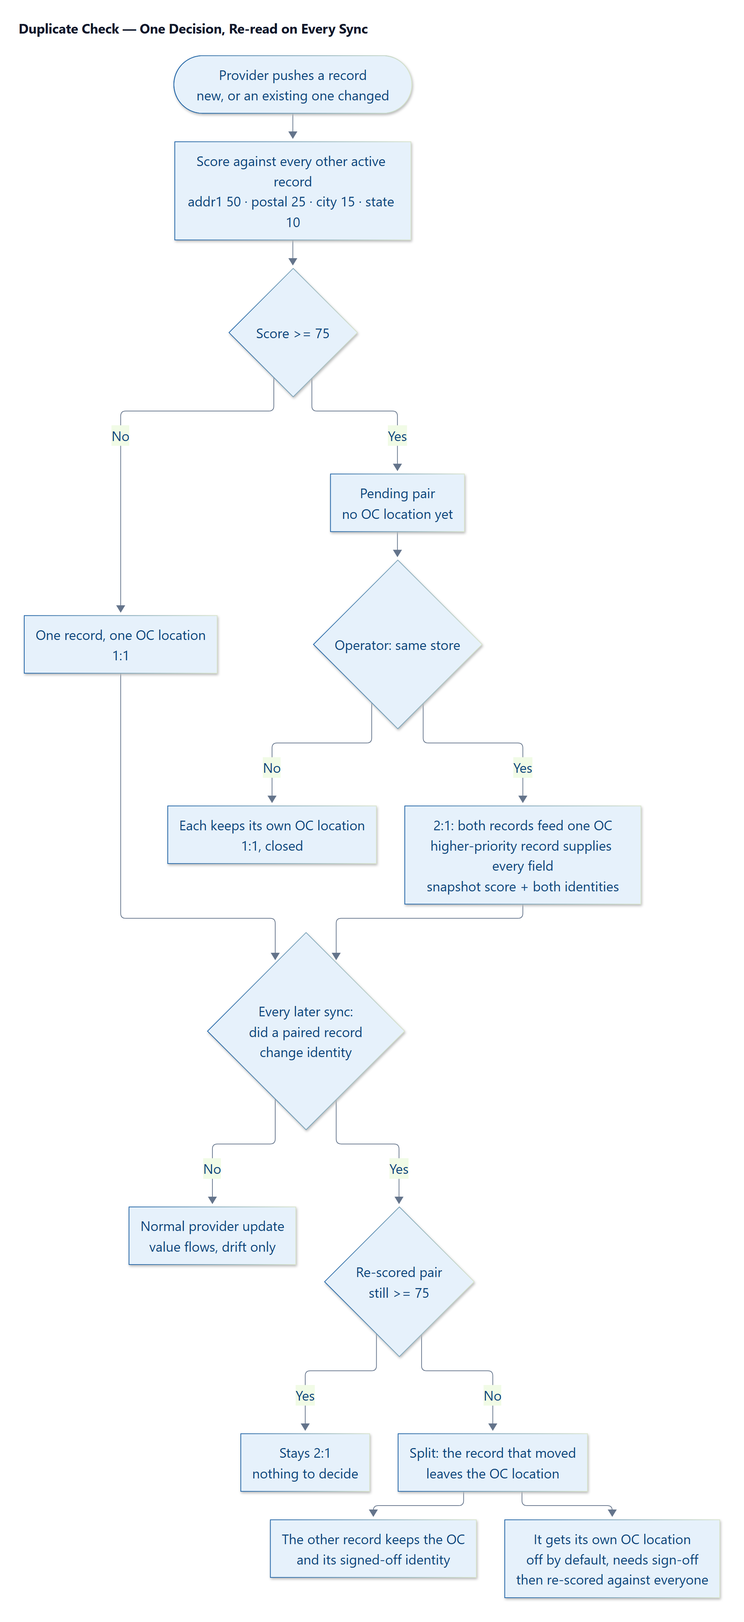
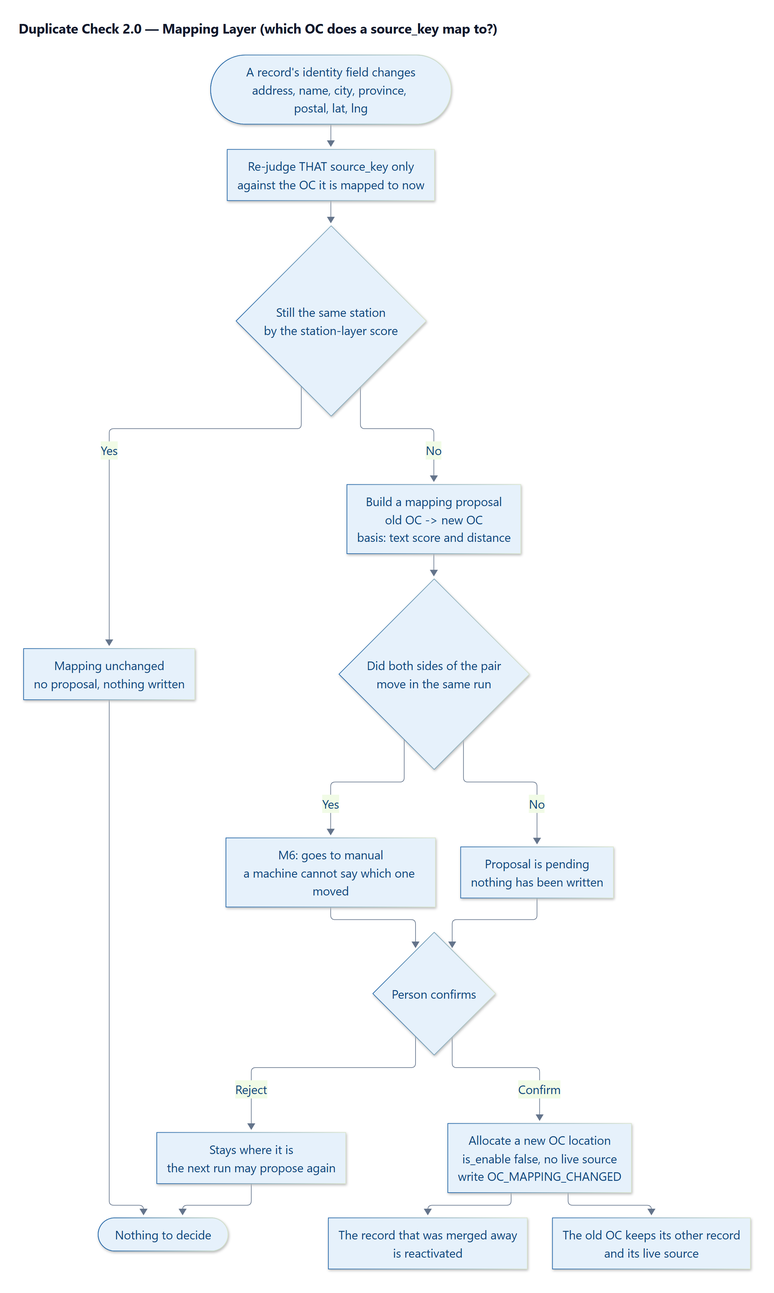
diagrams: duplicate check 2.0 (station + mapping layer) and the location state machine

diff --git a/diagrams/flow13-location-state.html b/diagrams/flow13-location-state.html
@@ -1,0 +1,1 @@
+<!DOCTYPE html><html><head><meta charset="utf-8"><title>Location State Machine</title><style>html,body{margin:0;padding:0;background:#fff}svg{display:block}</style></head><body><svg xmlns="http://www.w3.org/2000/svg" width="1420" height="780" viewBox="0 0 1420 780"><defs><marker id="ah" viewBox="0 0 10 10" refX="9" refY="5" markerWidth="6" markerHeight="6" orient="auto-start-reverse"><path d="M0 0 L10 5 L0 10 z" fill="#94A3B8"/></marker></defs><rect width="100%" height="100%" fill="#FFFFFF"/><text x="48" y="46" font-size="23" fill="#0F172A" font-weight="700" text-anchor="start" font-family='-apple-system,"Segoe UI",system-ui,sans-serif'>Location State Machine</text><text x="48" y="72" font-size="13" fill="#64748B" font-weight="400" text-anchor="start" font-family='-apple-system,"Segoe UI",system-ui,sans-serif'>One store, one live source — and the sync alone never enters a state</text><text x="48" y="132" font-size="10.5" fill="#94A3B8" font-weight="700" text-anchor="start" font-family='-apple-system,"Segoe UI",system-ui,sans-serif'>OC LOCATION  ·  what customers see</text><text x="48" y="450" font-size="10.5" fill="#94A3B8" font-weight="700" text-anchor="start" font-family='-apple-system,"Segoe UI",system-ui,sans-serif'>VENDOR RECORD  ·  what it is allowed to do</text><rect x="80" y="152" width="186" height="108" rx="10" fill="#F1F5F9" stroke="#CBD5E1" stroke-width="1.2"/><rect x="80" y="152" width="4" height="108" rx="2" fill="#64748B"/><text x="96" y="179" font-size="14" fill="#64748B" font-weight="650" text-anchor="start" font-family='-apple-system,"Segoe UI",system-ui,sans-serif'>No record</text><text x="96" y="202" font-size="10.9" fill="#64748B" font-weight="400" text-anchor="start" font-family='-apple-system,"Segoe UI",system-ui,sans-serif'>intake failed, or a</text><text x="96" y="217" font-size="10.9" fill="#64748B" font-weight="400" text-anchor="start" font-family='-apple-system,"Segoe UI",system-ui,sans-serif'>duplicate pair still open</text><text x="96" y="232" font-size="10.9" fill="#64748B" font-weight="400" text-anchor="start" font-family='-apple-system,"Segoe UI",system-ui,sans-serif'>no downstream row exists</text><rect x="348" y="152" width="186" height="108" rx="10" fill="#EFF6FF" stroke="#BFDBFE" stroke-width="1.2"/><rect x="348" y="152" width="4" height="108" rx="2" fill="#1D4ED8"/><text x="364" y="179" font-size="14" fill="#1D4ED8" font-weight="650" text-anchor="start" font-family='-apple-system,"Segoe UI",system-ui,sans-serif'>Not live</text><text x="364" y="202" font-size="10.9" fill="#64748B" font-weight="400" text-anchor="start" font-family='-apple-system,"Segoe UI",system-ui,sans-serif'>is_enable false</text><text x="364" y="217" font-size="10.9" fill="#64748B" font-weight="400" text-anchor="start" font-family='-apple-system,"Segoe UI",system-ui,sans-serif'>live_source null</text><text x="364" y="232" font-size="10.9" fill="#64748B" font-weight="400" text-anchor="start" font-family='-apple-system,"Segoe UI",system-ui,sans-serif'>two records, nobody</text><text x="364" y="247" font-size="10.9" fill="#64748B" font-weight="400" text-anchor="start" font-family='-apple-system,"Segoe UI",system-ui,sans-serif'>choosing: lands here</text><rect x="616" y="152" width="186" height="108" rx="10" fill="#ECFDF5" stroke="#A7F3D0" stroke-width="1.2"/><rect x="616" y="152" width="4" height="108" rx="2" fill="#047857"/><text x="632" y="179" font-size="14" fill="#047857" font-weight="650" text-anchor="start" font-family='-apple-system,"Segoe UI",system-ui,sans-serif'>Live</text><text x="790" y="178" font-size="9.5" fill="#047857" font-weight="600" text-anchor="end" font-family='-apple-system,"Segoe UI",system-ui,sans-serif'>visible</text><text x="632" y="202" font-size="10.9" fill="#64748B" font-weight="400" text-anchor="start" font-family='-apple-system,"Segoe UI",system-ui,sans-serif'>is_enable true</text><text x="632" y="217" font-size="10.9" fill="#64748B" font-weight="400" text-anchor="start" font-family='-apple-system,"Segoe UI",system-ui,sans-serif'>exactly one live source</text><text x="632" y="232" font-size="10.9" fill="#64748B" font-weight="400" text-anchor="start" font-family='-apple-system,"Segoe UI",system-ui,sans-serif'>baseline captured at</text><text x="632" y="247" font-size="10.9" fill="#64748B" font-weight="400" text-anchor="start" font-family='-apple-system,"Segoe UI",system-ui,sans-serif'>sign-off</text><rect x="884" y="152" width="186" height="108" rx="10" fill="#F8FAFC" stroke="#E2E8F0" stroke-width="1.2"/><rect x="884" y="152" width="4" height="108" rx="2" fill="#475569"/><text x="900" y="179" font-size="14" fill="#475569" font-weight="650" text-anchor="start" font-family='-apple-system,"Segoe UI",system-ui,sans-serif'>Offline</text><text x="900" y="202" font-size="10.9" fill="#64748B" font-weight="400" text-anchor="start" font-family='-apple-system,"Segoe UI",system-ui,sans-serif'>switched off by a person</text><text x="900" y="217" font-size="10.9" fill="#64748B" font-weight="400" text-anchor="start" font-family='-apple-system,"Segoe UI",system-ui,sans-serif'>or the source went inactive</text><text x="900" y="232" font-size="10.9" fill="#64748B" font-weight="400" text-anchor="start" font-family='-apple-system,"Segoe UI",system-ui,sans-serif'>both effective immediately</text><rect x="1152" y="152" width="186" height="108" rx="10" fill="#F1F5F9" stroke="#CBD5E1" stroke-width="1.2"/><rect x="1152" y="152" width="4" height="108" rx="2" fill="#64748B"/><text x="1168" y="179" font-size="14" fill="#64748B" font-weight="650" text-anchor="start" font-family='-apple-system,"Segoe UI",system-ui,sans-serif'>Retired</text><text x="1168" y="202" font-size="10.9" fill="#64748B" font-weight="400" text-anchor="start" font-family='-apple-system,"Segoe UI",system-ui,sans-serif'>merged away</text><text x="1168" y="217" font-size="10.9" fill="#64748B" font-weight="400" text-anchor="start" font-family='-apple-system,"Segoe UI",system-ui,sans-serif'>merged_into points</text><text x="1168" y="232" font-size="10.9" fill="#64748B" font-weight="400" text-anchor="start" font-family='-apple-system,"Segoe UI",system-ui,sans-serif'>at the keeper</text><path d="M266 206.0 H345" fill="none" stroke="#94A3B8" stroke-width="1.4" marker-end="url(#ah)"/><text x="343" y="192.0" font-size="9.4" fill="#475569" font-weight="600" text-anchor="end" font-family='-apple-system,"Segoe UI",system-ui,sans-serif'>OC generated</text><text x="343" y="203.0" font-size="9.4" fill="#475569" font-weight="600" text-anchor="end" font-family='-apple-system,"Segoe UI",system-ui,sans-serif'>(off)</text><path d="M534 206.0 H613" fill="none" stroke="#94A3B8" stroke-width="1.4" marker-end="url(#ah)"/><text x="611" y="198.0" font-size="9.4" fill="#475569" font-weight="600" text-anchor="end" font-family='-apple-system,"Segoe UI",system-ui,sans-serif'>sign-off</text><path d="M802 206.0 H881" fill="none" stroke="#94A3B8" stroke-width="1.4" marker-end="url(#ah)"/><text x="879" y="192.0" font-size="9.4" fill="#475569" font-weight="600" text-anchor="end" font-family='-apple-system,"Segoe UI",system-ui,sans-serif'>switch</text><text x="879" y="203.0" font-size="9.4" fill="#475569" font-weight="600" text-anchor="end" font-family='-apple-system,"Segoe UI",system-ui,sans-serif'>off</text><path d="M924 260 C924 300 709.0 300 709.0 263" fill="none" stroke="#94A3B8" stroke-width="1.4" marker-end="url(#ah)"/><text x="894" y="306" font-size="10.2" fill="#475569" font-weight="500" text-anchor="start" font-family='-apple-system,"Segoe UI",system-ui,sans-serif'>sign-off again</text><path d="M709.0 152 C709.0 100 1245.0 100 1245.0 149" fill="none" stroke="#94A3B8" stroke-width="1.4" marker-end="url(#ah)"/><text x="977.0" y="94" font-size="10.2" fill="#475569" font-weight="500" text-anchor="middle" font-family='-apple-system,"Segoe UI",system-ui,sans-serif'>merged away</text><path d="M1070 206.0 H1149" fill="none" stroke="#94A3B8" stroke-width="1.4" marker-end="url(#ah)"/><text x="1147" y="192.0" font-size="9.4" fill="#475569" font-weight="600" text-anchor="end" font-family='-apple-system,"Segoe UI",system-ui,sans-serif'>merged</text><text x="1147" y="203.0" font-size="9.4" fill="#475569" font-weight="600" text-anchor="end" font-family='-apple-system,"Segoe UI",system-ui,sans-serif'>away</text><rect x="80" y="470" width="186" height="108" rx="10" fill="#EFF6FF" stroke="#BFDBFE" stroke-width="1.2"/><rect x="80" y="470" width="4" height="108" rx="2" fill="#1D4ED8"/><text x="96" y="497" font-size="14" fill="#1D4ED8" font-weight="650" text-anchor="start" font-family='-apple-system,"Segoe UI",system-ui,sans-serif'>Candidate</text><text x="254" y="496" font-size="9.5" fill="#1D4ED8" font-weight="600" text-anchor="end" font-family='-apple-system,"Segoe UI",system-ui,sans-serif'>sync</text><text x="96" y="520" font-size="10.9" fill="#64748B" font-weight="400" text-anchor="start" font-family='-apple-system,"Segoe UI",system-ui,sans-serif'>a record the sync just</text><text x="96" y="535" font-size="10.9" fill="#64748B" font-weight="400" text-anchor="start" font-family='-apple-system,"Segoe UI",system-ui,sans-serif'>delivered. Never a source</text><rect x="348" y="470" width="186" height="108" rx="10" fill="#F8FAFC" stroke="#E2E8F0" stroke-width="1.2"/><rect x="348" y="470" width="4" height="108" rx="2" fill="#475569"/><text x="364" y="497" font-size="14" fill="#475569" font-weight="650" text-anchor="start" font-family='-apple-system,"Segoe UI",system-ui,sans-serif'>Standby</text><text x="364" y="520" font-size="10.9" fill="#64748B" font-weight="400" text-anchor="start" font-family='-apple-system,"Segoe UI",system-ui,sans-serif'>linked to a live store,</text><text x="364" y="535" font-size="10.9" fill="#64748B" font-weight="400" text-anchor="start" font-family='-apple-system,"Segoe UI",system-ui,sans-serif'>not feeding it</text><text x="364" y="550" font-size="10.9" fill="#64748B" font-weight="400" text-anchor="start" font-family='-apple-system,"Segoe UI",system-ui,sans-serif'>no baseline of its own</text><rect x="616" y="470" width="186" height="108" rx="10" fill="#ECFDF5" stroke="#A7F3D0" stroke-width="1.2"/><rect x="616" y="470" width="4" height="108" rx="2" fill="#047857"/><text x="632" y="497" font-size="14" fill="#047857" font-weight="650" text-anchor="start" font-family='-apple-system,"Segoe UI",system-ui,sans-serif'>Live source</text><text x="790" y="496" font-size="9.5" fill="#047857" font-weight="600" text-anchor="end" font-family='-apple-system,"Segoe UI",system-ui,sans-serif'>at most 1</text><text x="632" y="520" font-size="10.9" fill="#64748B" font-weight="400" text-anchor="start" font-family='-apple-system,"Segoe UI",system-ui,sans-serif'>the record this store</text><text x="632" y="535" font-size="10.9" fill="#64748B" font-weight="400" text-anchor="start" font-family='-apple-system,"Segoe UI",system-ui,sans-serif'>reads. One per store</text><rect x="884" y="470" width="186" height="108" rx="10" fill="#FFF7ED" stroke="#FED7AA" stroke-width="1.2"/><rect x="884" y="470" width="4" height="108" rx="2" fill="#C2410C"/><text x="900" y="497" font-size="14" fill="#C2410C" font-weight="650" text-anchor="start" font-family='-apple-system,"Segoe UI",system-ui,sans-serif'>Withdrawn</text><text x="900" y="520" font-size="10.9" fill="#64748B" font-weight="400" text-anchor="start" font-family='-apple-system,"Segoe UI",system-ui,sans-serif'>merged_into</text><text x="900" y="535" font-size="10.9" fill="#64748B" font-weight="400" text-anchor="start" font-family='-apple-system,"Segoe UI",system-ui,sans-serif'>comes back if the</text><text x="900" y="550" font-size="10.9" fill="#64748B" font-weight="400" text-anchor="start" font-family='-apple-system,"Segoe UI",system-ui,sans-serif'>keeper leaves the OC</text><rect x="1152" y="470" width="186" height="108" rx="10" fill="#F1F5F9" stroke="#CBD5E1" stroke-width="1.2"/><rect x="1152" y="470" width="4" height="108" rx="2" fill="#64748B"/><text x="1168" y="497" font-size="14" fill="#64748B" font-weight="650" text-anchor="start" font-family='-apple-system,"Segoe UI",system-ui,sans-serif'>Removed</text><text x="1168" y="520" font-size="10.9" fill="#64748B" font-weight="400" text-anchor="start" font-family='-apple-system,"Segoe UI",system-ui,sans-serif'>delisted by</text><text x="1168" y="535" font-size="10.9" fill="#64748B" font-weight="400" text-anchor="start" font-family='-apple-system,"Segoe UI",system-ui,sans-serif'>the provider</text><path d="M266 524.0 H345" fill="none" stroke="#94A3B8" stroke-width="1.4" marker-end="url(#ah)"/><text x="343" y="510.0" font-size="9.4" fill="#475569" font-weight="600" text-anchor="end" font-family='-apple-system,"Segoe UI",system-ui,sans-serif'>joins a</text><text x="343" y="521.0" font-size="9.4" fill="#475569" font-weight="600" text-anchor="end" font-family='-apple-system,"Segoe UI",system-ui,sans-serif'>live store</text><path d="M534 524.0 H613" fill="none" stroke="#94A3B8" stroke-width="1.4" marker-end="url(#ah)"/><text x="611" y="510.0" font-size="9.4" fill="#475569" font-weight="600" text-anchor="end" font-family='-apple-system,"Segoe UI",system-ui,sans-serif'>switch +</text><text x="611" y="521.0" font-size="9.4" fill="#475569" font-weight="600" text-anchor="end" font-family='-apple-system,"Segoe UI",system-ui,sans-serif'>sign-off</text><path d="M173.0 578 C173.0 622 977.0 622 977.0 581" fill="none" stroke="#94A3B8" stroke-width="1.4" marker-end="url(#ah)"/><text x="560" y="644" font-size="10.2" fill="#475569" font-weight="500" text-anchor="middle" font-family='-apple-system,"Segoe UI",system-ui,sans-serif'>same station: one record is withdrawn, the keeper stays</text><path d="M1245.0 424 V467" fill="none" stroke="#94A3B8" stroke-width="1.4" marker-end="url(#ah)"/><text x="1245.0" y="418" font-size="10.2" fill="#475569" font-weight="500" text-anchor="middle" font-family='-apple-system,"Segoe UI",system-ui,sans-serif'>provider delists it (any state)</text><path d="M709.0 466 V263" fill="none" stroke="#047857" stroke-width="1.4" stroke-dasharray="5 4" marker-end="url(#ah)"/><text x="725.0" y="336" font-size="11.5" fill="#047857" font-weight="650" text-anchor="start" font-family='-apple-system,"Segoe UI",system-ui,sans-serif'>the store reads from this record</text><text x="725.0" y="354" font-size="10.6" fill="#047857" font-weight="400" text-anchor="start" font-family='-apple-system,"Segoe UI",system-ui,sans-serif'>sign-off names the source and takes the store live —</text><text x="725.0" y="370" font-size="10.6" fill="#047857" font-weight="400" text-anchor="start" font-family='-apple-system,"Segoe UI",system-ui,sans-serif'>one action, both rows move</text><text x="48" y="712" font-size="11.5" fill="#475569" font-weight="400" text-anchor="start" font-family='-apple-system,"Segoe UI",system-ui,sans-serif'>Blocked is not a state: a failed check leaves the store exactly where it was — Not live.</text><text x="48" y="734" font-size="11.5" fill="#475569" font-weight="400" text-anchor="start" font-family='-apple-system,"Segoe UI",system-ui,sans-serif'>Going down is one click; coming up is a check. That asymmetry is the design, not an oversight.</text><text x="48" y="756" font-size="11.5" fill="#475569" font-weight="400" text-anchor="start" font-family='-apple-system,"Segoe UI",system-ui,sans-serif'>Retired is terminal for the OC location; Removed is terminal for the record. Neither id is ever reused.</text></svg></body></html>

diff --git a/Location-Management-Admin-PRD-2026-10-29.md b/Location-Management-Admin-PRD-2026-10-29.md
@@ -401,11 +401,17 @@ A 2:1 mapping is a claim about the world: *these two records describe one shop*.
 
 **What this does not fix.** If the *anchor* record (the one the OC was created from) is the one that moves, the OC keeps its id and follows the new values — that is a store identity change, not a duplicate question, and it is still only visible as drift. That is the case in §5.20's territory, not this one.
 
-### 5.20 The duplicate lifecycle, as a picture
+### 5.20 The duplicate check, as two pictures
 
-![Duplicate check — one decision, re-read on every sync](https://workbuddy-space-static.codebuddy.work/image/tBzZJHSIMmxqwT8PzQKOfT.png)
+The station layer answers one question — are these two records the same physical station — and stops there. A binary text score with the postal code as a gate, coordinates alongside as evidence, two labels out, three dispositions waiting for a person.
 
-The diagram is also published as `diagrams/flow12-duplicate-cycle.png`; the source is `diagrams/flow12-duplicate-cycle.mmd`.
+![Duplicate check 2.0 — station layer](https://workbuddy-space-static.codebuddy.work/image/rGWDRa0VC1YNMYnMZuvv4I.png)
+
+The mapping layer answers a different question — which OC location does this `source_key` point at now — one source at a time, with every move proposed before it is written.
+
+![Duplicate check 2.0 — mapping layer](https://workbuddy-space-static.codebuddy.work/image/3VT8csckDQBI9Bs3zQSB76.png)
+
+Both are published as `diagrams/flow4-duplicate.png` and `diagrams/flow12-duplicate-cycle.png`; the sources are the matching `.mmd` files. The v3.14 lifecycle diagram — one decision, re-read on every sync, with an automatic split when the score dropped — is **superseded**: nothing splits by itself any more, a move is a proposal (§5.21).
 
 ### 5.21 The duplicate check, rebuilt on the v2.0 rule doc (v4.0.0)
 
@@ -439,6 +445,24 @@ A 2:1 store used to print one merged line. Whichever record ranked highest suppl
 
 **Why the chosen source beats the ranking.** Ranking (M&MP → LMS → PUDO Inc) answers a question nobody asked once a store is live: it silently re-points a signed-off store whenever a better-ranked record arrives. A merge into a live store must not change what the customer reads, so the named source wins; the ranking only fills the gap for a store that has never been signed off. This is the same rule as §5.18 — one record supplies the whole store — with the addition that the record is now chosen rather than inferred.
 
+### 5.23 The location state machine (v4.1.0)
+
+![Location state machine — one store, one live source](https://workbuddy-space-static.codebuddy.work/image/s6IUFbwPF90MxY0uXkVAGN.png)
+
+Two rows on one axis: what a **store** may be, and what a **record** is allowed to do. They meet in exactly one place — the sign-off — because that is the only action that moves both.
+
+**Store states.** `No record` (intake failed, or a duplicate pair is still open; nothing downstream exists) → `Not live` (`is_enable` false, `live_source` null — including the case of two records and nobody choosing) → `Live` (`is_enable` true, exactly one live source, baseline captured) → `Offline` (switched off by a person, or the source went inactive; both take effect immediately) → `Retired` (merged away, `merged_into` points at the keeper).
+
+**Record roles.** `Candidate` (delivered by the sync, never a source) → `Standby` (linked to a store that is live on another record) or `Live source` (the record this store reads, one per store), with `Withdrawn` (`merged_into`, returns to candidate if the keeper leaves) and `Removed` (delisted by the provider) as the exits.
+
+**Three invariants, drawn rather than asserted:**
+
+1. **No state is entered by the sync alone.** A record arrives as a candidate; the store it joins stays exactly where it was (§5.22).
+2. **`Blocked` is not a state.** A failed check leaves the store where it already was — `Not live`. Rendering it as a state would suggest the store moved, and the point is that it did not.
+3. **Down is one click, up is a check.** The asymmetry is the design: an unverified store going offline is a smaller failure than an unverified store going live.
+
+The diagram is published as `diagrams/flow13-location-state.png`; the source is `make_state_machine.py` (hand-drawn SVG, so the two rows stay aligned where they meet).
+
 ## 6. Page Map
 
 | Page ID | Page Name | Module | Core Functions | Entry | Exit | Data Passed | Feature IDs | Priority |
@@ -446,7 +470,7 @@ A 2:1 store used to print one merged line. Whichever record ranked highest suppl
 | P01 | Vendor Location List | Vendor Location List | Filter, list, export, sweeper edit | Sidebar "Vendor Location List" | P03 | Vendor Location ID (to detail) | F01/F02/F05/F10 | P0 |
 | P02 | OC Location List | OC Location List | Filter, list (one line per source record), export, live on/off per source, batch enable/disable, **Not live yet** queue | Sidebar "OC Location List" (default landing) | P03 / P04 | OC Location ID (to detail) | F03/F04/F05/F08/F09/F11/F20/F31/F32 | P0 |
 | P03 | Location Detail | Detail (vendor / OC) | Full profile tabs (Basic Info / Operations / Hours & Services / Linked Records / Change History), per-location change history, contextual actions (sweeper edit for vendor; enable + store edit for OC), **pending-change banner + downstream push status** | P01/P02 row click | P01, P02, P05 | Location ID | F06/F07/F08/F10/F11/F20/F21 | P0 |
-| P04 | **Duplicate Check** | Query + decide | Two layers: is this the same station (binary score + coordinate evidence, `HIGH_SUSPECT` / `MEDIUM_SUSPECT`), and where does a `source_key` map (one source at a time, human-confirmed). Three dispositions — same station / two tenants / address to fix; A/B comparison with a weight chip per judged field | Sidebar "Duplicate Check" | P02/P03 | Pair ID | F26 | P0 |
+| P04 | **Duplicate Check** | Query + decide | Two layers: is this the same station (binary score + coordinate evidence, `HIGH_SUSPECT` / `MEDIUM_SUSPECT`), and where does a `source_key` map (one source at a time, human-confirmed). Three dispositions — same station / two tenants / address to fix; A/B comparison with a weight chip per judged field. Diagrams: §5.20, state machine §5.23 | Sidebar "Duplicate Check" | P02/P03 | Pair ID | F26 | P0 |
 | P05 | **Data Issues** | One anomaly ledger | Three sections — provider data issues (open → reported → fixed), drift after sign-off (**information only**), failed intake (chase only). No decision queues, no approval step. **Export open issues to CSV** for the provider | Sidebar "Data Issues" | P01/P02/P03 | Issue / OC ID | F11/F19/F20 | P0 |
 | P05 | Change Log (global) | Change History | Cross-location change log with filters | Sidebar "Change Log" | P03 | Optional location ID prefill | F15 | P1 |
 | P06 | Sync Status | Data Sync | Last sync run per provider, results, failure alerts | Sidebar "Sync Status" | P05 | — | F16 | P1 |

diff --git a/Location-Management-Admin-需求总览-2026-10-29.md b/Location-Management-Admin-需求总览-2026-10-29.md
@@ -254,7 +254,13 @@ A **mapping table** (`vendor_oc_mapping`) links them — principle **1:1**; a du
 
 ### 3.4 Duplicate Check — 两层，各问一个问题（v4.0.0）
 
-![Duplicate Check 生命周期](https://workbuddy-space-static.codebuddy.work/image/tBzZJHSIMmxqwT8PzQKOfT.png)
+**站点层**：这两条记录是不是同一个物理站点？
+
+![Duplicate Check 2.0 — 站点层](https://workbuddy-space-static.codebuddy.work/image/rGWDRa0VC1YNMYnMZuvv4I.png)
+
+**映射层**：这个 source_key 现在对应哪个 OC？
+
+![Duplicate Check 2.0 — 映射层](https://workbuddy-space-static.codebuddy.work/image/3VT8csckDQBI9Bs3zQSB76.png)
 
 对应 PRD §5.21：<br/>
 · **站点层**：这两条记录是不是同一个物理站点？打分是**二分制** —— 地址 40 · 名称 10 · 邮编 25 · 州 15 · 城市 10，清洗后要么全等拿满分、要么 0（邮编不同直接 0）。坐标不折算成分数，而是**并排的证据通道**：≤30 m 同点位 / 30–100 m 灰区 / >100 m 不同。输出是标签：`HIGH_SUSPECT`（≥80）/ `MEDIUM_SUSPECT`（50–79）；<br/>
@@ -273,12 +279,6 @@ A **mapping table** (`vendor_oc_mapping`) links them — principle **1:1**; a du
 ### 3.5 Sweeper 随同步进来（v3.0.0）
 
 sweeper 由供应商随门店一起提供，和其它字段一样只读。发现不对（没给、给了错的揽收方）→ 在供应商记录上**标记异常**，写明原因，推供应商改；下次同步把新值带进来。原「Sweeper 编辑」流程（flow3）已下线。
-
-### 3.5 Duplicate Check（独立页）
-
-![Duplicate Review](https://workbuddy-space-static.codebuddy.work/image/THq85hNgrIbu1LIbM5Pwrz.png)
-
-> 独立页面只回答一个问题：这两条供应商门店是不是同一家。是 → 2:1（两条记录喂一个 OC 门店，下游按字段合并，LMS 优先）；不是 → 1:1。OC 列表里 2:1 的门店带 `2:1` 标记。
 
 ### 3.6 Exception
 
@@ -308,6 +308,18 @@ sweeper 由供应商随门店一起提供，和其它字段一样只读。发现
 
 原来的「手改即裁决」「字段锁」「字段回退」三条流程（flow9/10/11）在 v3.0.0 全部下线——没有改，就没有锁和回退。
 
+### 3.10 Location 状态机（v4.1.0）
+
+![Location 状态机](https://workbuddy-space-static.codebuddy.work/image/s6IUFbwPF90MxY0uXkVAGN.png)
+
+两行、一根轴：**门店能是什么状态**，**一条记录被允许做什么**。它们只在一个地方相遇 —— 签收，因为那是唯一同时移动两行的动作。
+
+- **门店**：`No record`（入库失败 / 重复未决，下游什么都没有）→ `Not live`（已生成但关闭、无供数源；两条记录没人选也落在这里）→ `Live`（开着，恰好一个供数源，基线已记）→ `Offline`（人为关，或供数源失效；两者立即生效）→ `Retired`（被合并，`merged_into` 指向留下那条）。
+- **记录**：`Candidate`（同步刚送来的，永远不是来源）→ `Standby`（挂在别人供数的店上）或 `Live source`（这家店读它，一店一个），出口是 `Withdrawn`（`merged_into`，合并方离开就回到候选）与 `Removed`（供应商下架）。
+- **三条不变量画在图上**：① 同步本身进不了任何状态；② `Blocked` 不是状态（检查没过，店原地不动）；③ 下线一键、上线一检。
+
+对应 PRD §5.23；图为 `diagrams/flow13-location-state.png`。
+
 ## 四、交付物清单（v4.1.0）
 
 | 交付物 | 文件 | 语言 | 读者 | 说明 |
@@ -319,7 +331,7 @@ sweeper 由供应商随门店一起提供，和其它字段一样只读。发现
 | 验收标准（通俗版） | `Location-Management-Admin-验收标准-2026-10-29.md` | 中文 | 业务 / 测试 | 13 条快检、分页面清单、5 个故事、不该发生的事 |
 | **英文功能概览** | `feature-overview-en.html` / `Location-Management-Admin-Feature-Overview-EN.md` | 英文 | **外部同事** | 一页讲清做什么、为什么这样设计；可直接转发或打印 |
 | 交互原型 | `Location-Management-Admin-Prototype-2026-10-29.html` | 中英双语（右上角切换） | 全员 | 单文件高保真，覆盖 6 个菜单 + 详情 5 个标签页 |
-| 流程图 | `diagrams/flow1..12-*.png` | 英文 | 全员 | 12 张，2x 渲染，飞书可直接嵌入 |
+| 流程图 | `diagrams/flow1..13-*.png` | 英文 | 全员 | 13 张，2x 渲染，飞书可直接嵌入。v4 新增：`flow4` 站点层、`flow12` 映射层（重复检查 2.0），`flow13` Location 状态机 |
 | 演示视频 | `Location-Management-Admin-Demo-2026-10-29.mp4` | 英文字幕 | 全员 | 3 分 25 秒、36 条字幕，按 v3.8.0 重录；十段：两层 → 详情 → 标记 → 列表与来源/类型 → 签收 → 重复 → 自动关闭 → 漂移 → 只读角色 → 中英切换 |
 
 **对外分享用哪一个**：给外国同事发 `feature-overview.html`（英文单页），需要展开细节时再给 PRD 和字段映射；中文团队内部用本文件 + 验收标准。
